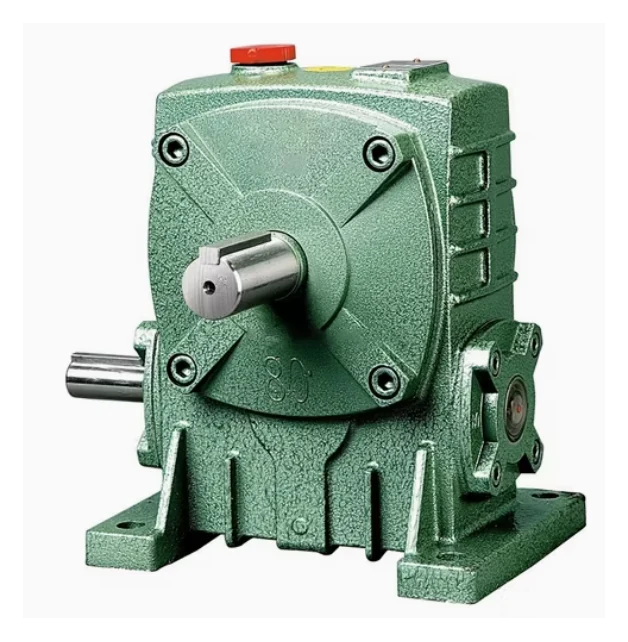
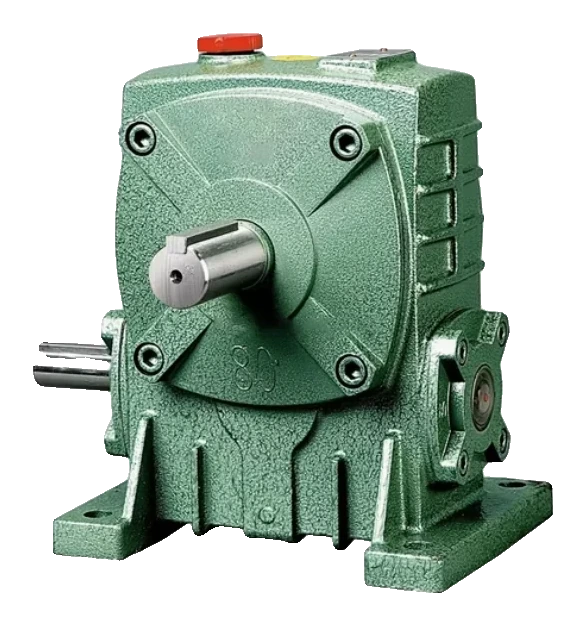
Make the remaining product pictures transparent
Removes the backgrounds (AI matting, rembg isnet-general-use) from the
product pictures that still had one, so the homepage cards and product
pages show them on the site's own background:

- Chain Sprocket, WPA, WPO, WPX and Vee Pulley: white backgrounds
  removed in place (same WebP files)
- Conveyor Roller, Conveyor Sprocket, Oil Lubrication (both pictures)
  and Roller Chain: photo backgrounds removed and saved as new
  transparent WebP files next to the old JPEGs

References in the code are updated, and a one-time catalog batch
(replaceImages) swaps the old JPEG paths for the new WebP paths in the
live catalog's product pictures, galleries and any saved homepage
highlights.

Claude-Session: https://claude.ai/code/session_01XhN9P9rsHzkZy5jz2SB5do

diff --git a/db/home-showcase-defaults.ts b/db/home-showcase-defaults.ts
@@ -14,13 +14,13 @@ export const defaultHomeShowcase: HomeShowcase = {
     { id: "bearing", title: "Bearing", imagePath: "/products/bearing/skf-6000-series.webp", href: "/bearing" },
     { id: "belting", title: "Belting", imagePath: "/products/belting/belt-image.webp", href: "/belting" },
     { id: "chain-sprocket", title: "Chain Sprocket", imagePath: "/products/chain-sprocket/chain-sprocket.webp", href: "/chain-sprocket" },
-    { id: "conveyor-roller", title: "Conveyor Roller", imagePath: "/products/conveyor-roller/20240801_111732.jpg", href: "/conveyor-roller" },
-    { id: "conveyor-sprocket", title: "Conveyor Sprocket", imagePath: "/products/conveyor-sprocket/95e99121-6e03-4897-96da-8bedaecbe568.jpg", href: "/conveyor-sprocket" },
+    { id: "conveyor-roller", title: "Conveyor Roller", imagePath: "/products/conveyor-roller/20240801_111732.webp", href: "/conveyor-roller" },
+    { id: "conveyor-sprocket", title: "Conveyor Sprocket", imagePath: "/products/conveyor-sprocket/95e99121-6e03-4897-96da-8bedaecbe568.webp", href: "/conveyor-sprocket" },
     { id: "coupling", title: "Coupling", imagePath: "/products/coupling/fcl-coupling.webp", href: "/coupling" },
     { id: "gearbox", title: "Worm Gear Reducer", imagePath: "/products/gearbox/wpa.webp", href: "/gearbox" },
-    { id: "oil-lubrication", title: "Oil Lubrication", imagePath: "/products/oil-lubrication/20220509_131258.jpg", href: "/oil-lubrication" },
+    { id: "oil-lubrication", title: "Oil Lubrication", imagePath: "/products/oil-lubrication/20220509_131258.webp", href: "/oil-lubrication" },
     { id: "pulley", title: "Pulley", imagePath: "/products/pulley/taper-lock-pulley.webp", href: "/pulley" },
-    { id: "roller-chain", title: "Roller Chain", imagePath: "/products/roller-chain/roller-chain.jpg", href: "/roller-chain" },
+    { id: "roller-chain", title: "Roller Chain", imagePath: "/products/roller-chain/roller-chain.webp", href: "/roller-chain" },
     { id: "water-pump", title: "Water Pump", imagePath: "/products/water-pump/automatic-self-priming-pumps.webp", href: "/water-pump" },
     { id: "blower-fan", title: "Blower Fan", imagePath: "/products/blower-fan/blower-fan.webp", href: "/blower-fan" },
   ],

diff --git a/db/catalog-seeds.ts b/db/catalog-seeds.ts
@@ -18,8 +18,9 @@ import type { CreateProductInput } from "./product-store-types";
 /**
  * Changes applied once to catalogs that already exist on the server.
  * A batch adds `products` (skipping slugs that already exist), deletes
- * `removeSlugs`, and replaces the gallery photos of the products named in
- * `setGalleries` (slug → photos). Each batch id is recorded after it runs, so administrators
+ * `removeSlugs`, replaces the gallery photos of the products named in
+ * `setGalleries` (slug → photos), and swaps picture paths listed in
+ * `replaceImages` (old path → new path) wherever they are used. Each batch id is recorded after it runs, so administrators
  * can edit or delete products in /manage without the batch undoing it.
  */
 export type CatalogSeedBatch = {
@@ -27,6 +28,7 @@ export type CatalogSeedBatch = {
   products?: CreateProductInput[];
   removeSlugs?: string[];
   setGalleries?: Record<string, string[]>;
+  replaceImages?: Record<string, string>;
 };
 
 function galleriesBySlug(products: CreateProductInput[]) {
@@ -66,5 +68,18 @@ export const catalogSeedBatches: CatalogSeedBatch[] = [
     // in a group shared the same photos.
     id: "2026-11-per-model-galleries",
     setGalleries: galleriesBySlug([...bearingProducts, ...gearboxProducts, ...pulleyProducts]),
+  },
+  {
+    // Background-free (transparent) versions of pictures that were JPEG photos.
+    id: "2026-11-transparent-product-pictures",
+    replaceImages: Object.fromEntries(
+      [
+        "conveyor-roller/20240801_111732",
+        "conveyor-sprocket/95e99121-6e03-4897-96da-8bedaecbe568",
+        "oil-lubrication/20220509_131258",
+        "oil-lubrication/20220902_102019",
+        "roller-chain/roller-chain",
+      ].map((name) => [`/products/${name}.jpg`, `/products/${name}.webp`]),
+    ),
   },
 ];

diff --git a/db/products.node.ts b/db/products.node.ts
@@ -90,6 +90,17 @@ async function applyCatalogSeeds() {
         if (galleryImages) product.galleryImages = galleryImages;
       }
     }
+    if (batch.replaceImages) {
+      const swap = (path: string) => batch.replaceImages?.[path] ?? path;
+      for (const product of data.products) {
+        if (product.imagePath) product.imagePath = swap(product.imagePath);
+        if (product.galleryImages) product.galleryImages = product.galleryImages.map(swap);
+      }
+      if (data.homeShowcase) {
+        data.homeShowcase.feature.imagePath = swap(data.homeShowcase.feature.imagePath);
+        for (const card of data.homeShowcase.cards) card.imagePath = swap(card.imagePath);
+      }
+    }
     for (const product of batch.products ?? []) {
       const slug = product.slug || slugify(product.name);
       if (data.products.some((item) => item.slug === slug)) continue;

diff --git a/db/info/conveyor-sprocket.ts b/db/info/conveyor-sprocket.ts
@@ -18,7 +18,7 @@ export const conveyorSprocketProducts = [
     description: [description, ...paragraphs].join(" "),
     features: [],
     specs: { Type: "Conveyor Sprocket" },
-    imagePath: "/products/conveyor-sprocket/95e99121-6e03-4897-96da-8bedaecbe568.jpg",
+    imagePath: "/products/conveyor-sprocket/95e99121-6e03-4897-96da-8bedaecbe568.webp",
     galleryImages: ["/conveyor-sprocket/support/20211119_170554.jpg", "/conveyor-sprocket/support/20211216_170951.jpg", "/conveyor-sprocket/support/20220704_161630.jpg", "/conveyor-sprocket/support/20260211_171209.jpg"],
   }),
 ];

diff --git a/db/info/oil-lubrication.ts b/db/info/oil-lubrication.ts
@@ -18,8 +18,8 @@ export const oilLubricationProducts = [
     description: [description, ...paragraphs].join(" "),
     features: [],
     specs: { Type: "Oil Lubrication" },
-    imagePath: "/products/oil-lubrication/20220509_131258.jpg",
-    galleryImages: ["/products/oil-lubrication/20220902_102019.jpg"],
+    imagePath: "/products/oil-lubrication/20220509_131258.webp",
+    galleryImages: ["/products/oil-lubrication/20220902_102019.webp"],
   }),
 ];
 

diff --git a/db/info/roller-chain.ts b/db/info/roller-chain.ts
@@ -13,7 +13,7 @@ export const rollerChainProducts = [
     description,
     features: [],
     specs: { Type: "Roller Chain" },
-    imagePath: "/products/roller-chain/roller-chain.jpg",
+    imagePath: "/products/roller-chain/roller-chain.webp",
     galleryImages: ["/roller-chain/support/20250312_162000.jpg", "/roller-chain/support/20250312_162558.jpg", "/roller-chain/support/20250319_100413.jpg", "/roller-chain/support/20250319_100428.jpg"],
   }),
 ];

diff --git a/db/info/conveyor-roller.ts b/db/info/conveyor-roller.ts
@@ -22,7 +22,7 @@ export const conveyorRollerProducts = [
     description,
     features: applications,
     specs: { Type: "Conveyor Roller" },
-    imagePath: "/products/conveyor-roller/20240801_111732.jpg",
+    imagePath: "/products/conveyor-roller/20240801_111732.webp",
     galleryImages: ["/conveyor-roller/support/20240801_105742.jpg", "/conveyor-roller/support/20240801_111742.jpg"],
   }),
 ];
